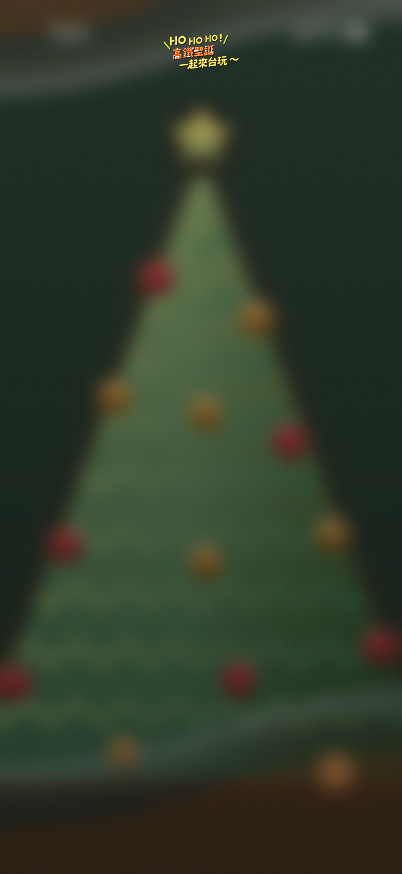
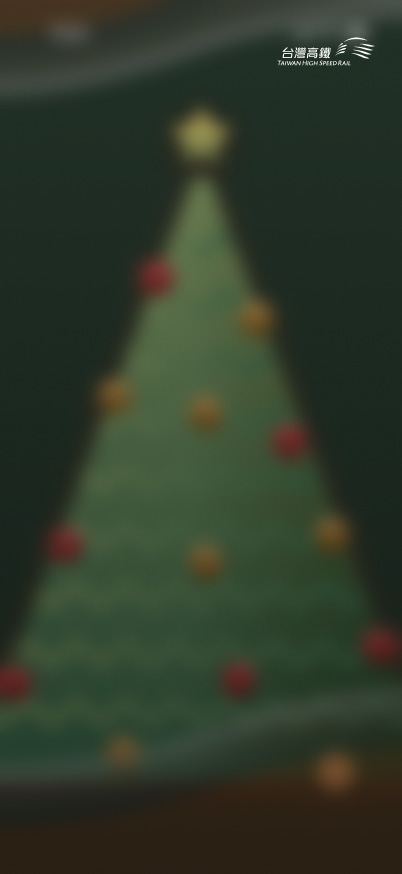
Change final page style

Changed region(s): [[0.6866, 0.0309, 0.9254, 0.0927], [0.4179, 0.0309, 0.5672, 0.0927]]

diff --git a/app/routes/selfie_page.tsx b/app/routes/selfie_page.tsx
@@ -4,6 +4,7 @@ import { Link } from "react-router";
 import { downloadFromBase64 } from "~/utility/utility_func";
 import play_again_btn_img from '../assets/sprite/play_again.png'
 import share_and_lottery_img from '../assets/sprite/share_and_lottery.png'
+import kv_title_v3 from '../assets/sprite/kv_title_v3.png'
 
 export default function SelfiePage() {
     const selfie_source = useARCameraStore(x=>x.selfie_source);
@@ -27,8 +28,12 @@ export default function SelfiePage() {
         <div className="bg-[url('/images/07_dlresult_bg.jpg')] bg-size-[100%_100%] bg-no-repeat bg-center h-screen
         flex flex-col justify-center items-center py-8">
 
+        <img 
+            src={kv_title_v3} 
+            className="max-w-24"
+        />
 
-        <p className="text-white text-center text-2xl md:text-2xl font-bold pb-1">
+        <p className="text-white text-center text-2xl md:text-2xl font-bold py-4">
             收藏你的照片吧!
         </p>        
 
@@ -48,7 +53,7 @@ export default function SelfiePage() {
 
           </div>
 
-        <span className="block text-white font-semibold">點擊可下載圖片</span>
+        <span className="block text-white text-sm font-semibold">點擊可下載圖片</span>
         </div>
         )}
 
